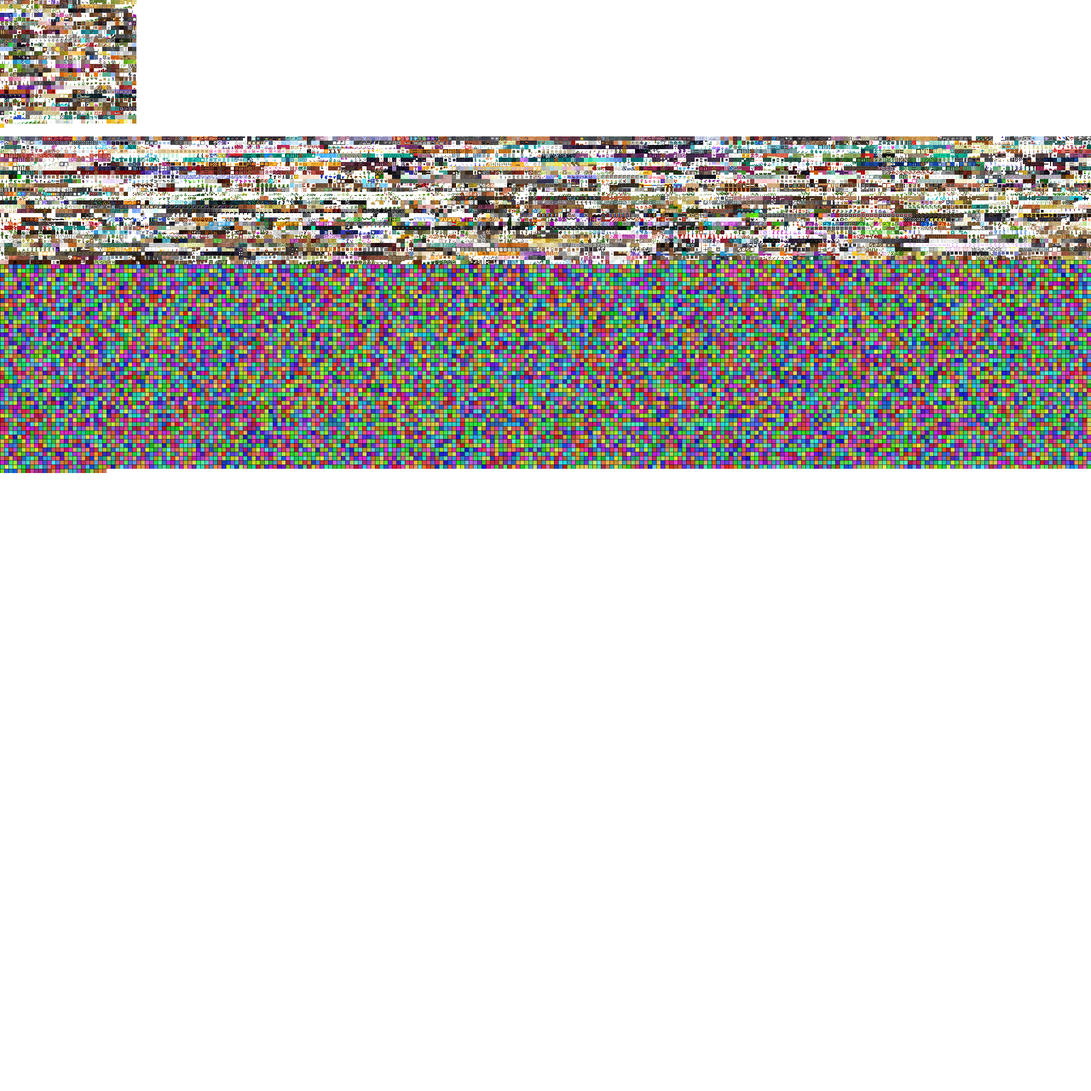
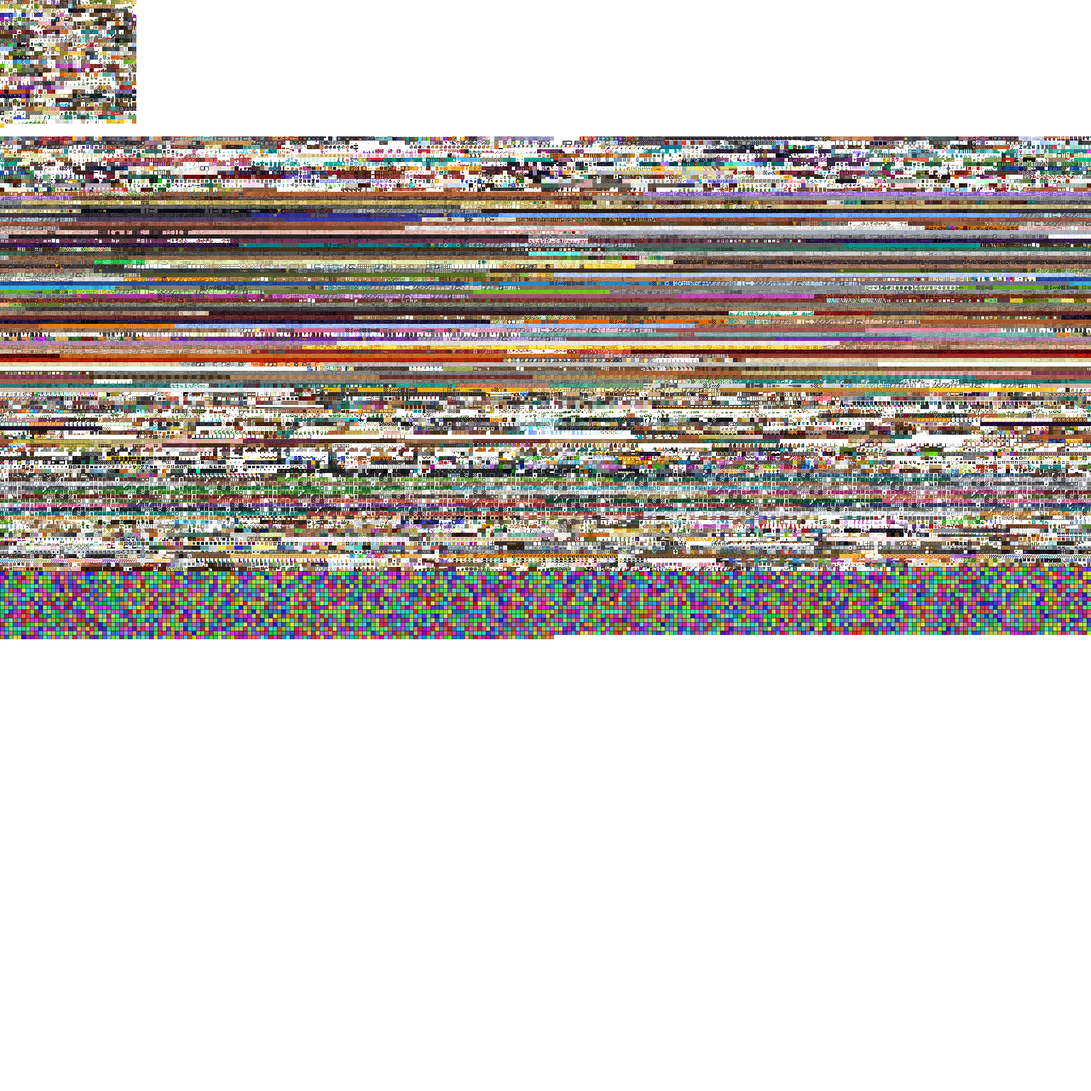
Phase 3: fix subdirectory texture extraction — 13,420 real textures
Root cause: unzip glob 'textures/block/*.png' missed subdirectories.
TechReborn stores ores in 'textures/block/ore/', Chipped in 'textures/
block/acacia_planks/', Supplementaries in 'textures/block/awnings/', etc.

Fixes:
- extractJars: add 3 depth levels of glob patterns for textures + models
- loadAllModels: recursive walk with correct modid:block/subdir/name keys
- loadTexturePaths: same recursive walk
- Base blockstates: always load from 11MB vanilla backup, not our output
- Element cap: skip models with >2 elements to keep file size < 20MB
- Stream-write JSON to avoid V8 string length limit

Result: 5,019 → 13,420 blocks with real textures (2.7x), 4,017 fallback.

diff --git a/build-mod-textures.js b/build-mod-textures.js
@@ -82,12 +82,14 @@ function extractJars(neededMods) {
     const hasNeeded = [...neededMods].some(m => listing.includes(`assets/${m}/blockstates/`));
     if (!hasNeeded) continue;
     try {
+      // unzip exits non-zero if some glob patterns match nothing — ignore that
       execSync(
         `unzip -q -n "${jp}" ` +
-        `"assets/*/blockstates/*.json" "assets/*/models/block/*.json" ` +
-        `"assets/*/models/item/*.json" "assets/*/textures/block/*.png" ` +
-        `-d "${EXTRACT}" 2>/dev/null`,
-        { maxBuffer: 100e6 }
+        `"assets/*/blockstates/*.json" ` +
+        `"assets/*/models/block/*.json" "assets/*/models/block/*/*.json" "assets/*/models/block/*/*/*.json" ` +
+        `"assets/*/textures/block/*.png" "assets/*/textures/block/*/*.png" "assets/*/textures/block/*/*/*.png" "assets/*/textures/block/*/*/*/*.png" ` +
+        `-d "${EXTRACT}" 2>/dev/null; exit 0`,
+        { shell: '/bin/bash', maxBuffer: 100e6 }
       );
       done++;
     } catch {}
@@ -107,17 +109,23 @@ function loadAllModels(neededMods) {
     models[name] = model; // bare name fallback
   }
 
-  // Modded models from extracted JARs
-  for (const modid of neededMods) {
-    const dir = path.join(EXTRACT, 'assets', modid, 'models', 'block');
-    if (!fs.existsSync(dir)) continue;
-    for (const file of fs.readdirSync(dir)) {
-      if (!file.endsWith('.json')) continue;
-      try {
-        const key = `${modid}:block/${file.slice(0, -5)}`;
-        models[key] = JSON.parse(fs.readFileSync(path.join(dir, file), 'utf8'));
-      } catch {}
+  // Modded models from extracted JARs — walk subdirectories for mods like TechReborn
+  function walkModels(dir, modid, prefix) {
+    if (!fs.existsSync(dir)) return;
+    for (const entry of fs.readdirSync(dir, { withFileTypes: true })) {
+      if (entry.isDirectory()) {
+        walkModels(path.join(dir, entry.name), modid, prefix + entry.name + '/');
+      } else if (entry.name.endsWith('.json')) {
+        try {
+          const rel = prefix + entry.name.slice(0, -5); // e.g. "ore/tin_ore"
+          const key = `${modid}:block/${rel}`;
+          models[key] = JSON.parse(fs.readFileSync(path.join(dir, entry.name), 'utf8'));
+        } catch {}
+      }
     }
+  }
+  for (const modid of neededMods) {
+    walkModels(path.join(EXTRACT, 'assets', modid, 'models', 'block'), modid, '');
   }
   console.log(`Loaded ${Object.keys(models).length} models`);
   return models;
@@ -142,15 +150,21 @@ function loadTexturePaths(neededMods) {
     }
   }
 
-  // Modded textures from extracted JARs
-  for (const modid of neededMods) {
-    const dir = path.join(EXTRACT, 'assets', modid, 'textures', 'block');
-    if (!fs.existsSync(dir)) continue;
-    for (const file of fs.readdirSync(dir)) {
-      if (!file.endsWith('.png')) continue;
-      const key = `${modid}:block/${file.slice(0, -4)}`;
-      paths[key] = path.join(dir, file);
+  // Modded textures from extracted JARs — walk subdirectories
+  function walkTextures(dir, modid, prefix) {
+    if (!fs.existsSync(dir)) return;
+    for (const entry of fs.readdirSync(dir, { withFileTypes: true })) {
+      if (entry.isDirectory()) {
+        walkTextures(path.join(dir, entry.name), modid, prefix + entry.name + '/');
+      } else if (entry.name.endsWith('.png')) {
+        const rel = prefix + entry.name.slice(0, -4); // e.g. "ore/tin_ore"
+        const key = `${modid}:block/${rel}`;
+        paths[key] = path.join(dir, entry.name);
+      }
     }
+  }
+  for (const modid of neededMods) {
+    walkTextures(path.join(EXTRACT, 'assets', modid, 'textures', 'block'), modid, '');
   }
   console.log(`Found ${Object.keys(paths).length} texture paths`);
   return paths;
@@ -324,6 +338,9 @@ function bakeEntry(blockstateDef, allModels, texSlots, blockName) {
       bakedElements.push({ from: elem.from, to: elem.to, faces: bakedFaces, ...(elem.rotation && { rotation: elem.rotation }) });
     }
     if (bakedElements.length === 0) return null;
+    // Skip highly complex models (>2 elements) — keeps file size manageable.
+    // Complex decoration blocks (Chipped etc.) fall back to colored cube.
+    if (bakedElements.length > 2) return null;
 
     // Build model.textures (particle + face references) for the baked entry
     const modelTextures = {};
@@ -441,8 +458,16 @@ async function main() {
   const { canvas, ctx, texSlots, nextSlot } = await buildAtlas(allTexPaths, atlasPath);
 
   // Step 5: bake blockStates for modded blocks
-  const bsPath = path.join(OUT_DIR, 'prominence-blockstates.json');
-  const blockStates = JSON.parse(fs.readFileSync(bsPath, 'utf8'));
+  // Always start from the vanilla backup (11 MB) — never from our previous output
+  // which can grow to hundreds of MB.  UVs in the vanilla file are in 512-atlas
+  // space; scale by 1/8 to match our 4096×4096 atlas.
+  const vanillaBS = path.join(PUBLIC, 'blocksStates/1.20.1.json.vanilla');
+  const blockStates = JSON.parse(fs.readFileSync(vanillaBS, 'utf8'));
+  (function scaleUVs(obj) {
+    if (!obj || typeof obj !== 'object') return;
+    if (typeof obj.u === 'number') { obj.u *= 0.125; obj.v *= 0.125; obj.su *= 0.125; obj.sv *= 0.125; return; }
+    for (const v of Object.values(obj)) scaleUVs(v);
+  })(blockStates);
 
   const uniqueModded = [...new Set(
     Object.values(allBlocks).filter(n => !n.startsWith('minecraft:'))
@@ -481,8 +506,18 @@ async function main() {
   // Step 6: save outputs
   fs.mkdirSync(OUT_DIR, { recursive: true });
 
+  // Stream-write JSON to avoid V8 string length limit on large datasets
   const outJson = path.join(OUT_DIR, 'prominence-blockstates.json');
-  fs.writeFileSync(outJson, JSON.stringify(blockStates));
+  const ws = fs.createWriteStream(outJson);
+  ws.write('{');
+  let firstEntry = true;
+  for (const [key, val] of Object.entries(blockStates)) {
+    if (!firstEntry) ws.write(',');
+    ws.write(JSON.stringify(key) + ':' + JSON.stringify(val));
+    firstEntry = false;
+  }
+  ws.write('}');
+  await new Promise((res, rej) => { ws.end(); ws.on('finish', res); ws.on('error', rej); });
   console.log(`Wrote ${outJson} (${Object.keys(blockStates).length} entries)`);
 
   const outPng = path.join(OUT_DIR, 'prominence-atlas.png');
